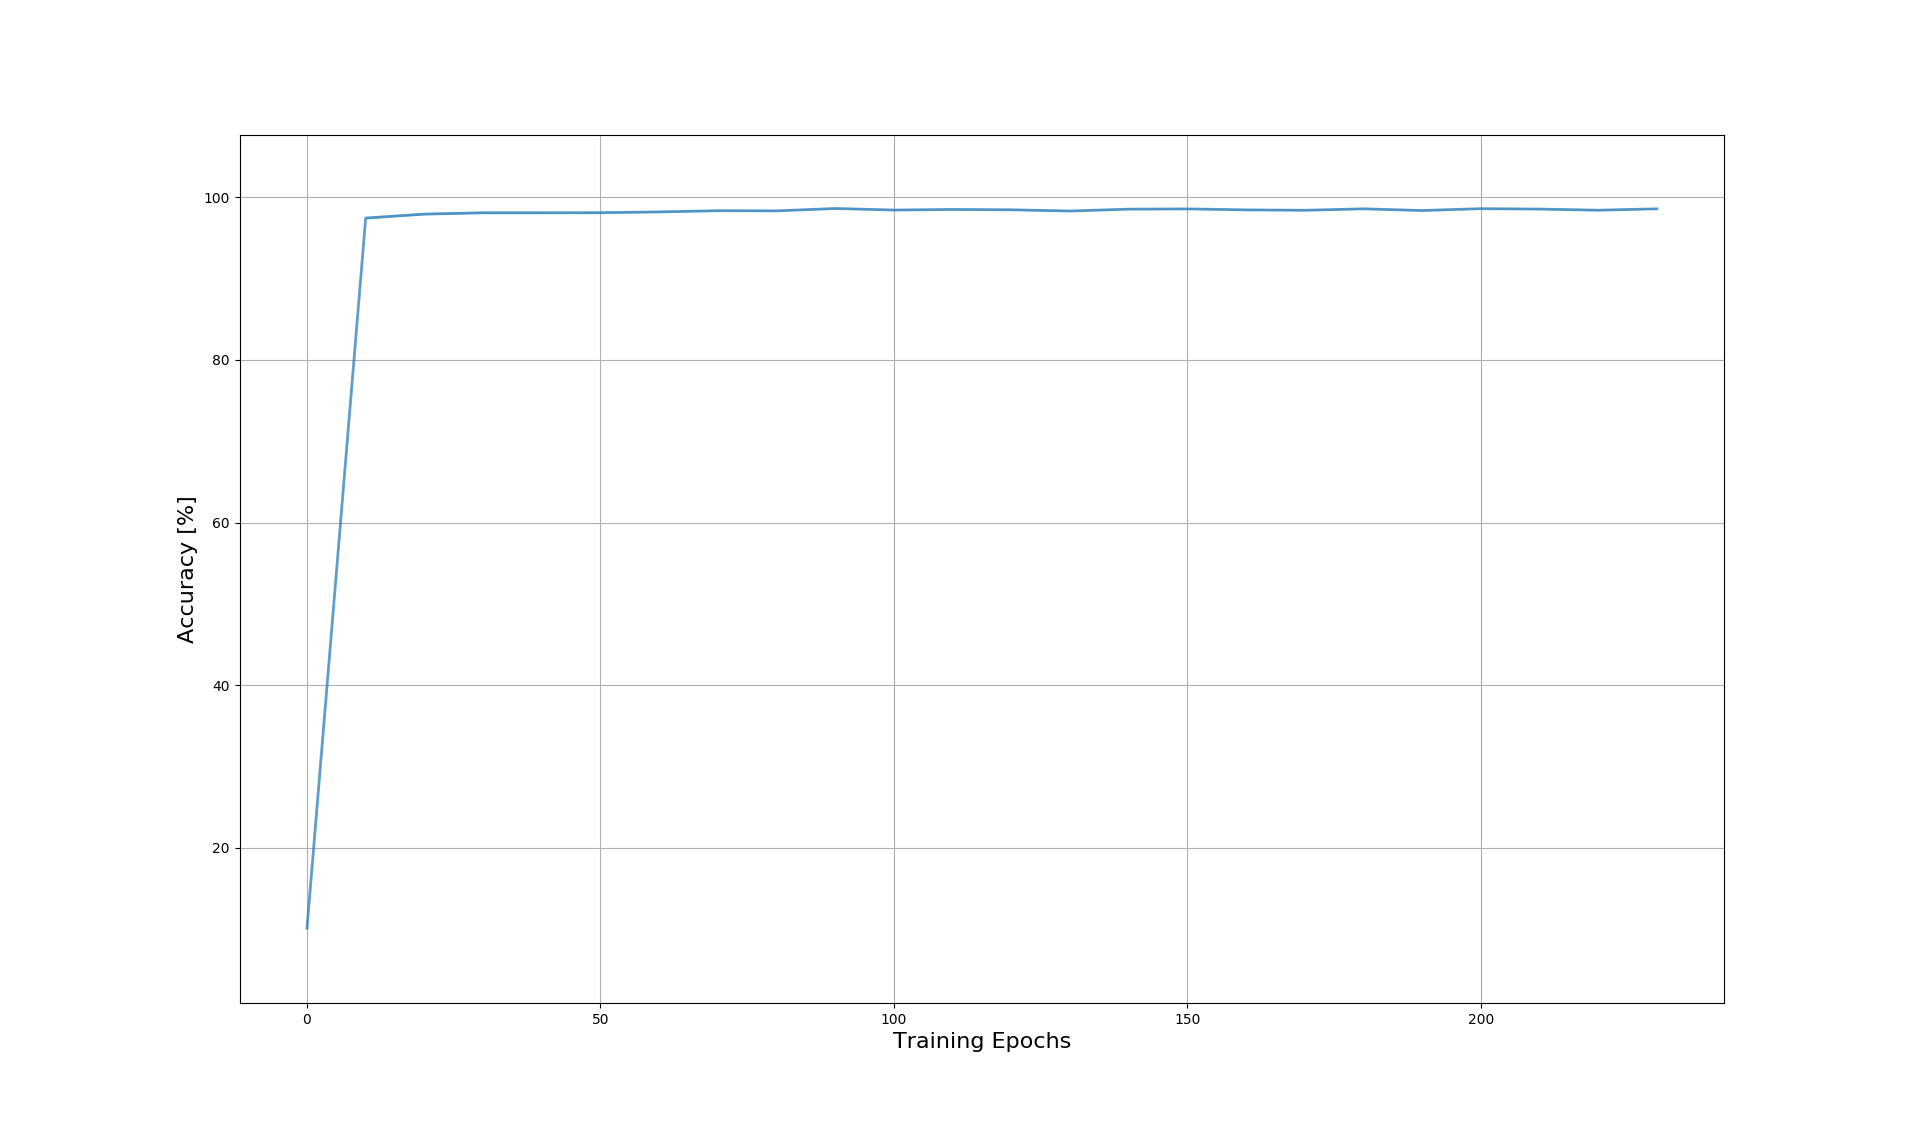
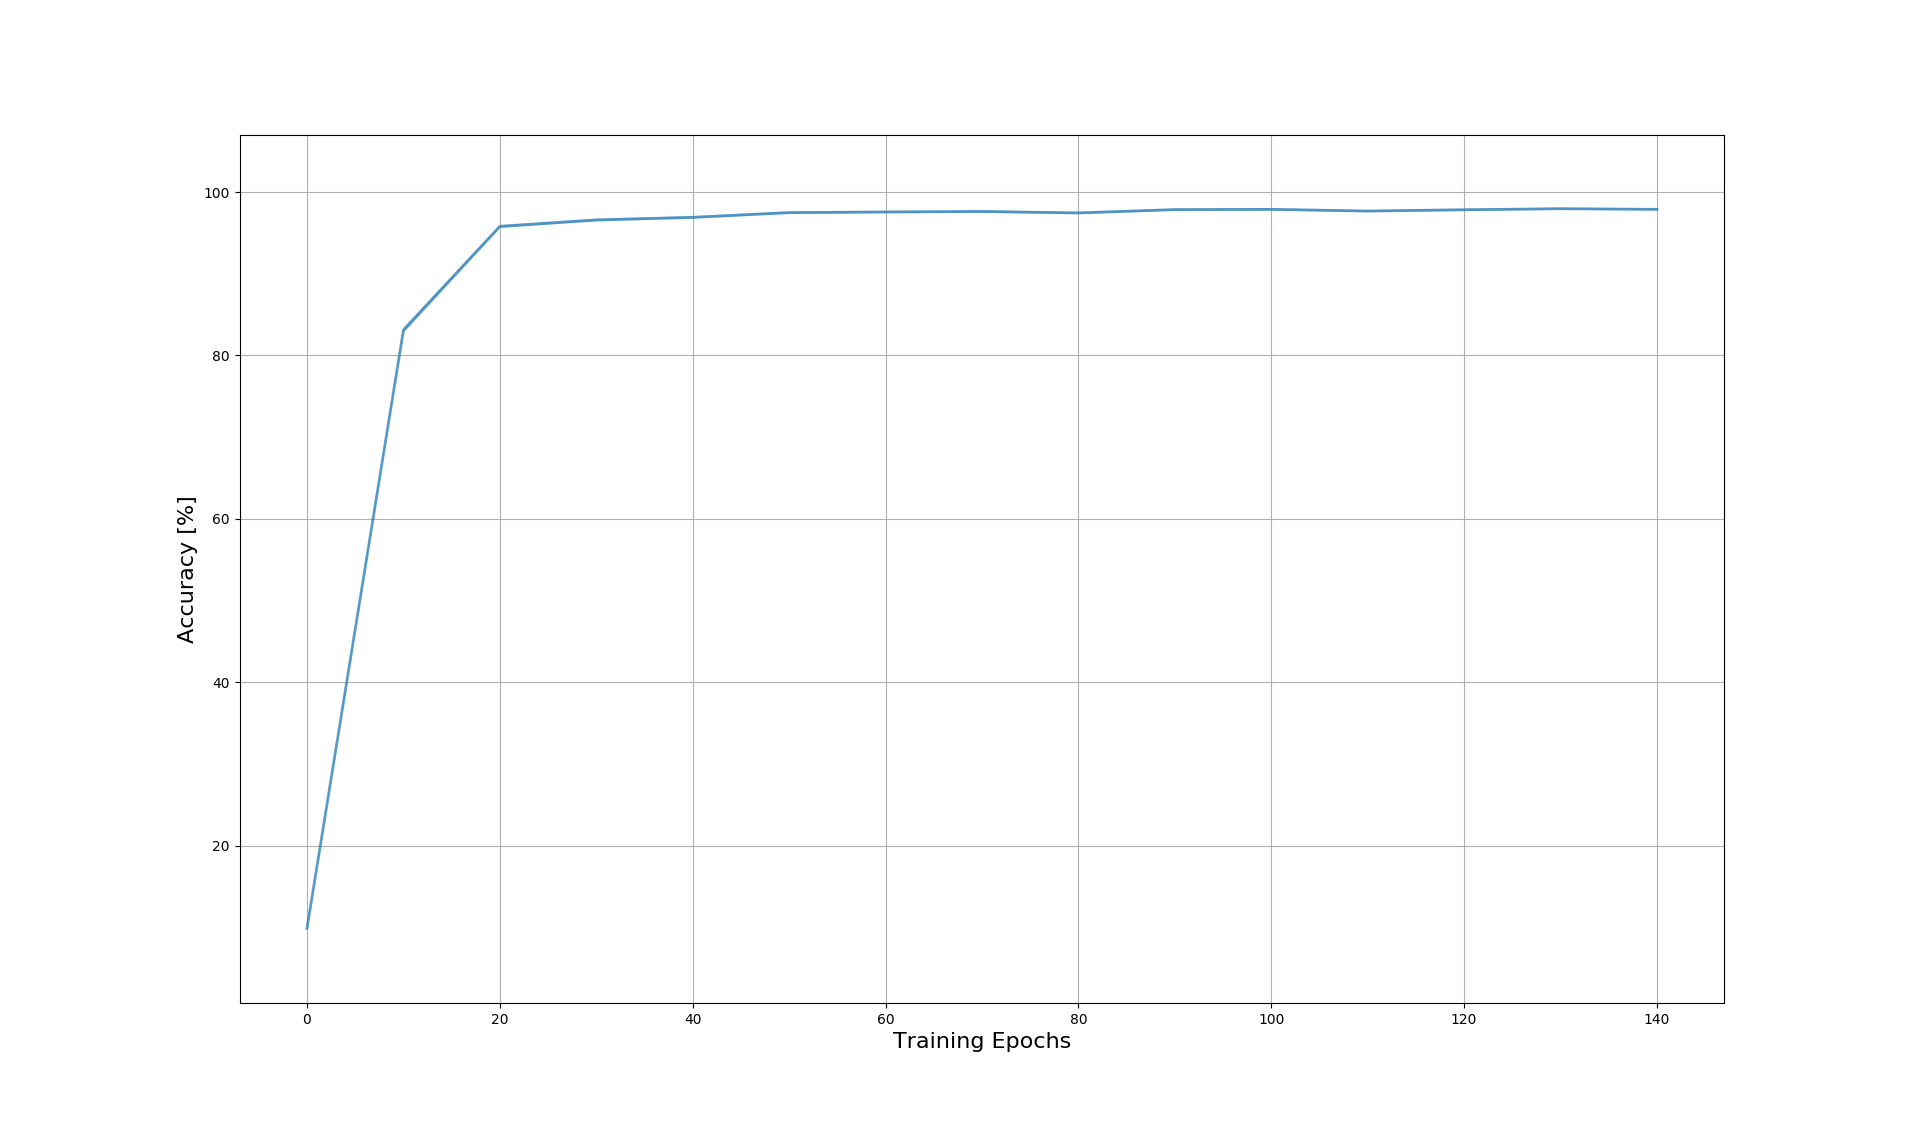
Results updated

diff --git a/MNIST_experiment.py b/MNIST_experiment.py
@@ -73,19 +73,14 @@ class Experiment():
                 print ('Loading Model...')
 #               # ckpt = tf.train.get_checkpoint_state(PARAMETERS.MODEL_FILE_PATH)
                 #self.saver.restore(sess, ckpt.model_checkpoint_path)
-                latest_check_point = tf.train.latest_checkpoint(PARAMETERS.MODEL_FILE_PATH)
-                self.saver.restore(sess, latest_check_point)
+                self.saver.restore(sess, PARAMETERS.MODEL_FILE_PATH)
             else:
                 sess.run(tf.global_variables_initializer())
 
-            coord = tf.train.Coordinator()
-            threads = tf.train.start_queue_runners(coord=coord)
             #   ================
             #   Train
             #   ================
             self.train(PARAMETERS.EARLY_STOPPING, PARAMETERS.PATIENCE, sess)
-            coord.request_stop()
-            coord.join(threads)
         self.save('./', 'results.json')
 
     def performance_run(self, total_epochs, validation=False):

diff --git a/run_mnist.py b/run_mnist.py
@@ -90,11 +90,11 @@ class PARAMETERS:
     #   adam
     #   adadelta
     #   sgd
-    OPTIMIZER = 'adam'
+    OPTIMIZER = 'sgd'
     # Momentum
     MOMENTUM = 0.9
     # Learning rate alpha
-    LEARNING_RATE = 0.001
+    LEARNING_RATE = 0.01
     # Decay type for learning rate
     #   - static
     #   - linear

diff --git a/README.md b/README.md
@@ -12,6 +12,8 @@ These *glimpses* are then perceived in a retina-like representation to classify 
 As suggested in [1], [2], the network is trained using the REINFORCE [3] learning rule. 
 The baseline is trained by reducing the mean squared error between the baseline and the received reward.
 
+*In contrast to the model introduced in [1], not only the mean, but also the standard deviation of the location policy is learned.*
+
 The code is inspired by [3], [4] & [5].
 
 ## Installation
@@ -55,7 +57,7 @@ start the training via the corresponding configuration file:
 python run_mnist.py
 ```
 
-**Current Highscore:  98.6% +/- 0.12 accuracy on the MNIST test-dataset.**
+**Current Highscore:  97.97% +/- 0.14 accuracy on the MNIST test-dataset.**
 
 The plot below shows the accuracy for the test-dataset over the number of trained epochs. 
 ![Example](./MNIST_Results/MNIST_accuracy.png)
@@ -78,7 +80,7 @@ start the code via the corresponding configuration file:
 python run_translated_mnist.py
 ```
 
-**Current Highscore:  97.46% +/- 0.16 accuracy on the translated MNIST test-dataset.**
+**Current Highscore:  97.5% +/- 0.16 accuracy on the translated MNIST test-dataset.**
 
 The plot below shows the accuracy for the test-dataset over the number of trained epochs. 
 ![Example](./MNIST_translated_Results/MNIST_translated_accuracy.png)
